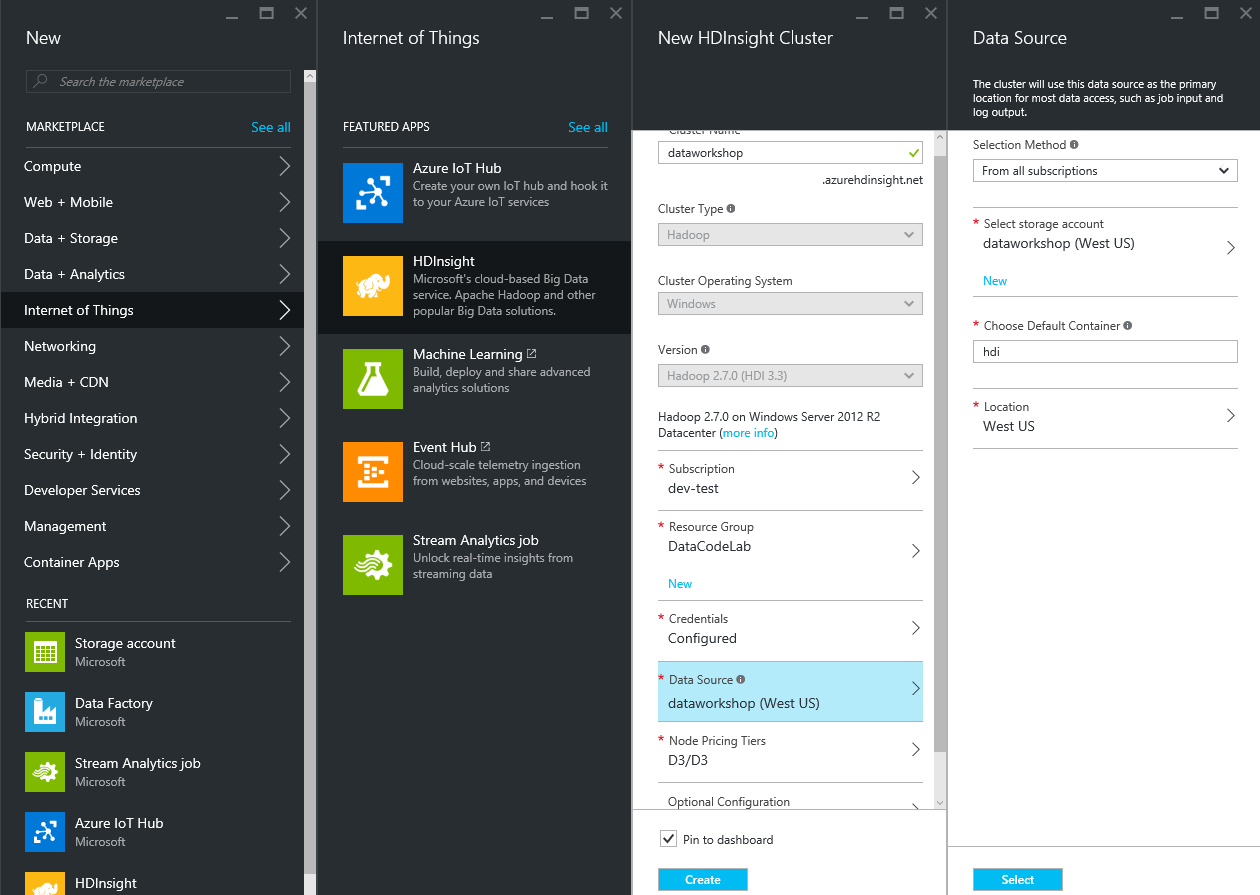
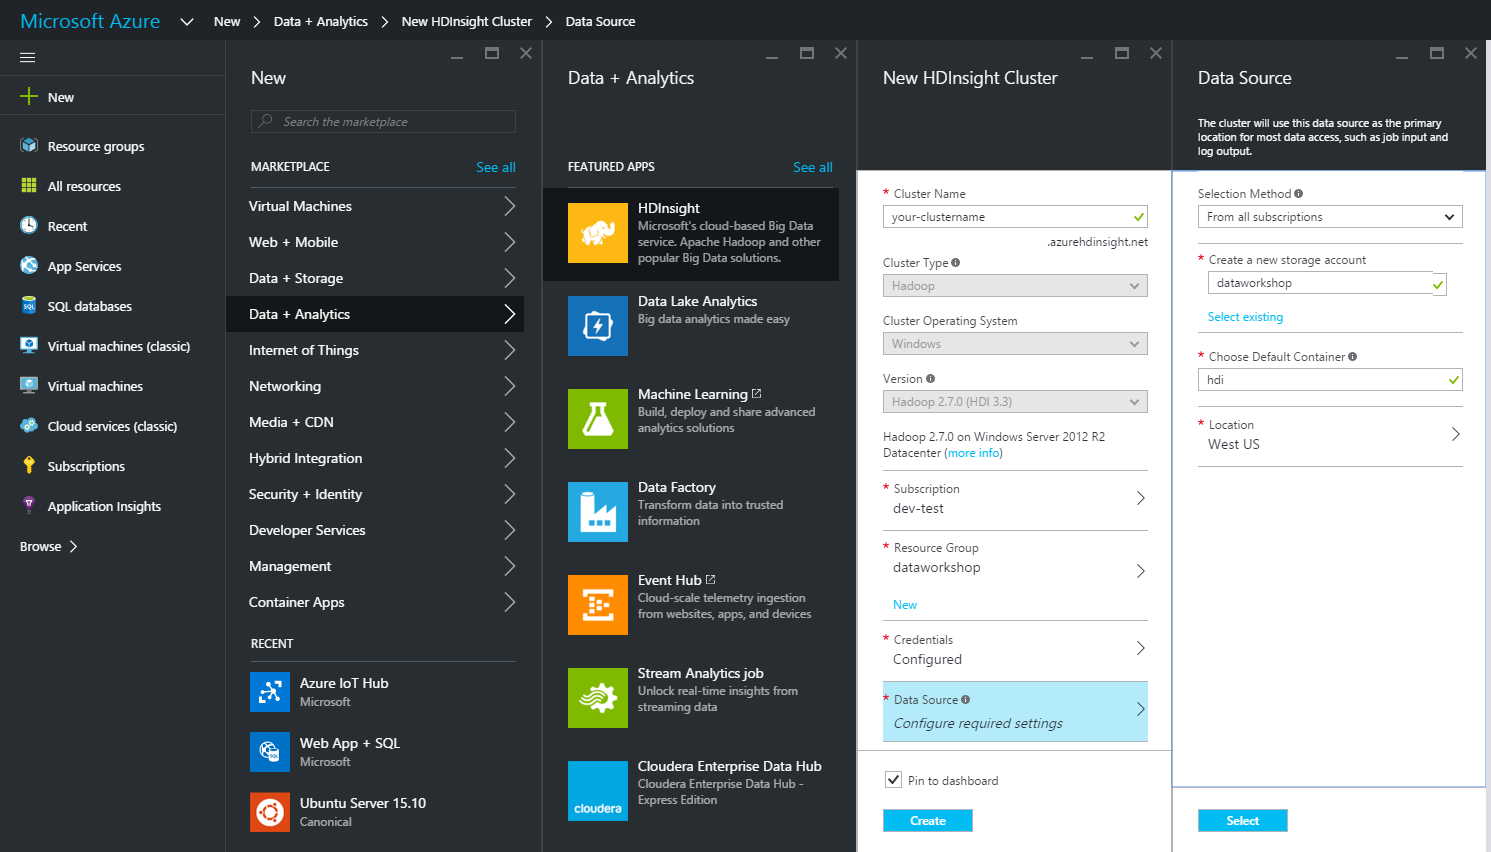
Updated setup section of module 2 readme document

diff --git a/Module2-GainInsights/README.md b/Module2-GainInsights/README.md
@@ -41,39 +41,10 @@ In order to run the exercises in this module, you'll need to create an HDI clust
 
 > **Important:** when entering the names for the storage account, SQL DW server and HDInsight server, those must be **globally unique**. To ensure this, you can use your first and last name as prefixes for the resource names. For instance: "johndoestorage", "johndoehdi" and "johndoesqlserver".
 
-
-<a name="SetupScript"></a>
-#### Automated setup using scripts ####
-
-Using the setup script you can fully setup the environment by creating the sample data, upload to storage, create HDI cluster and SQL Data Warehouse.
-
-1. Open Windows Explorer and browse to the module's **Setup** folder.
-1. Right-click **Setup.cmd** and select **Run as Administrator** to launch the setup process.
-1. If the _User Account Control_ dialog box is shown, confirm the action to proceed.
-1. Select a setup operation from the menu. First generate the sample data files and then proceed with the next tasks in order.
-
-	![Setup menu](Images/setup-menu.png?raw=true "Setup menu")
-
-	_Setup menu_
-
-1. If prompted, log in with credentials where you have an available Azure subscription. You will be able to select one if you have multiple subscriptions.
-
-1. Complete the prompted values as requested on each setup step. **Take note of the account names, keys and passwords as they will be required for the exercises**. Also, the settings will be stored in .txt files inside the "Setup" folder.
-
-	The HDI cluster provisioning may take around 15 minutes. You can enter the [Microsoft Azure portal](https://portal.azure.com/) to check the status of the HDI cluster provisioning.
-
-	![HDI cluster in progress](Images/setup-inprogress-hdi.png?raw=true "HDI cluster in progress")
-
-	_HDI cluster in progress_
-
-    **Note**: to clean your subscription just delete the 'DataCodeLab' resource group and all the associated resources.
-
-Now you can skip the manual setup instructions and start executing the exercises.
-
 <a name="ManualSetupHDI"></a>
 #### Manual Setup 1: Creating the HDI cluster ####
 
-1. In the [Microsoft Azure portal](https://portal.azure.com/), create a new HDI cluster (_New > Internet of Things > HDInsight_).
+1. In the [Microsoft Azure portal](https://portal.azure.com/), create a new HDI cluster (_New > Data + Analytics > HDInsight_).
 
 1. Enter a globally unique name for the cluster.
 
@@ -81,33 +52,84 @@ Now you can skip the manual setup instructions and start executing the exercises
 
 	HDInsight allows to deploy a variety of cluster types, for different data analytics workloads. Cluster types offered are:
 
-	- _Hadoop: for query and analysis workloads_
-	- HBase: for NoSQL workloads
-	- Storm: for real time event processing workloads
-	- Spark: for in-memory processing, interactive queries, stream, and machines learning workloads.
+	- **_Hadoop**: for query and analysis workloads_
+	- **HBase**: for NoSQL workloads
+	- **Storm**: for real time event processing workloads
+	- **Spark**: for in-memory processing, interactive queries, stream, and machines learning workloads.
 
 1. Select an operating system for the cluster (you can choose between either Windows or Linux) and use the latest version ("Hadoop 2.7.0 (HDI 3.3)" or latest)
 
 1. Select the same Resource Group as the used for the Storage account ("**DataCodeLab**").
 
-1. Configure the cluster login credentials (for instance: **admin/P@ssword**) and the SSH creadetials if using Linux. No need to enable **Remote Desktop**. You will use the cluster credentails to access the Hive dashboard (for Windows) or Ambari portal (for Linux) when testing the HQL queries.
+1. Configure the cluster login credentials (for instance: **admin/myP@ssw0rd**) and the SSH creadetials if using Linux. Enable **Remote Desktop**. You will use the cluster credentails to access the Hive dashboard (for Windows) or Ambari portal (for Linux) when testing the HQL queries.
 
-1. Select the existing storage account you created in the previous setup task for the _data source_ and use "**hdi**" for the default container name.
+1. Create a new storage account for the _data source_ and use "**hdi**" for the default container name.
 
 1. You can use 1 for the worker nodes number and the lowest pricing tiers for this module.
+
+1. Click **Create**. The provisioning may take 15 minutes to complete.
 
 	![Create HDI cluster](Images/setup-create-hdi.png?raw=true "Create HDI cluster")
 
 	_Create HDI cluster_
 
-1. Click **Create**. The provisioning may take 15 minutes to complete.
+> **Note:** For this module we don't need to persist the cluster when deleted, so we won't configure a Hive and Oozie metastore for it. 
 
-	> **Note:** For this module we don't need to persist the cluster when deleted, so we won't configure a Hive and Oozie metastore for it. 
+> Using the metastore helps you to retain your Hive and Oozie metadata, so that you don't need to re-create Hive tables or Oozie jobs when you create a new cluster. By default, Hive uses an embedded Azure SQL database to store this information. The embedded database can't preserve the metadata when the cluster is deleted.
 
-	> 	Using the metastore helps you to retain your Hive and Oozie metadata, so that you don't need to re-create Hive tables or Oozie jobs when you create a new cluster. By default, Hive uses an embedded Azure SQL database to store this information. The embedded database can't preserve the metadata when the cluster is deleted. 
+> In order to configure Oozie or Hive metadata Database, first you need to create the SQL Database. To do this, navigate to _New > Data + Storage > SQL Database_ and create a _blank database_ in the same resource group that you want to use for the HDI cluster.
+
+> ![Create a SQL Database](Images/creating-the-sql-database.png?raw=true "Create a SQL Database")
+
+> _Create a SQL Database_
+
+> Then, select _Optional Configuration_ in the _New HDInsight Cluster_. Select _External Metastores_ in the _Optional Configuration_ blade and choose to use an existing SQL Database, selcting the one you created before.
+
+> ![External Metastores configuration](Images/external-metastores-configuration.png?raw=true "External Metastores configuration")
+
+> _External Metastores configuration_
+
+<a name="ManualSetupSqlDW"></a>
+#### Manual Setup 2: Manually creating the SQL Data Warehouse ####
+
+1. In the [Microsoft Azure portal](https://portal.azure.com/), create a new SQL Data Warehouse (_New > Data + Storage > SQL Data Warehouse_).
+
+1. Enter "**partsunlimited**" for the database name.
+
+1. The minimun performance of 100 DWU will be enough for this module.
+
+1. Create a new SQL Server for hosting the Data Warehouse.
+	1. Select **Create a new server** in the Server blade.
+	1. Enter a globally unique name for the server.
+	1. Enter a admin login name: **dwadmin**
+	1. Write a password for the server login: **P@ssword123**
+	1. Repeat the password to confirm it.
+	1. Select the same location used for the other services.
+
+1. Use **Blank database** for the source so a new empty database is used (it will use the "partsunlimited" name).
+
+1. Select the resource group used for all the services: **DataCodeLab**.
+
+	![Create SQL Data Warehouse](Images/setup-create-dw.png?raw=true "SQL Data Warehouse")
+
+	_SQL Data Warehouse_
+
+1. Click **Create**.
+
+1. Once created, in the _SQL Data Warehouse_ blade, click on the server name to open the Sql Server settings.
+
+1. Click **Show firewall settings**.
+
+1. Click on **Add client IP** to add a rule to enable access for your machine.
+
+	![Firewall config](Images/setup-dw-firewall.png?raw=true "Firewall config")
+
+	_Firewall config_
+
+1. Click **Save**.
 
 <a name="ManualSetupUploadFiles"></a>
-#### Manual Setup 2: Manually uploading the sample files ####
+#### Manual Setup 3: Manually uploading the sample files ####
 
 1. In the [Microsoft Azure portal](https://portal.azure.com/), create a new Storage Account or find an existing one to reuse.
  1. Make sure to use the "_Resource Manager_" for the deployment mode.
@@ -136,7 +158,7 @@ Now you can skip the manual setup instructions and start executing the exercises
 		],
 	> ````
 
-1. Go back to the Azure portal and check if the storage provisioning is complete. **Take note of the storage account name and key values from the settings pane.
+1. Go back to the Azure portal and check if the storage provisioning is complete. **Take note of the storage account name and key values from the settings pane**.
 
 	![Getting account name and key](Images/setup-storage-key.png?raw=true "Getting account name and key")
 
@@ -152,46 +174,14 @@ Now you can skip the manual setup instructions and start executing the exercises
 
 > **Note:** Alternativelly, you could use the [Blob Service REST API](https://msdn.microsoft.com/en-us/library/azure/dd135733.aspx) to automate the files upload.
 
-<a name="ManualSetupSqlDW"></a>
-#### Manual Setup 3: Manually creating the SQL Data Warehouse ####
+<a name="ManualSetupSqlDWScript"></a>
+#### Manual Setup 4: Manually creating the tables and stored procedures in SQL Data Warehouse ####
 
-1. In the [Microsoft Azure portal](https://portal.azure.com/), create a new SQL Data Warehouse (_New > Data + Storage > SQL Data Warehouse_).
+Once that the SQL Data Warehouse is created, you need to create the tables and stored procedures that will be used in this module.
 
-1. Enter "**partsunlimited**" for the database name.
+1. Navigate to the SQL Data Warehouse you created previously.
 
-1. The minimun performance of 100 DWU will be enough for this module.
-
-1. Create a new SQL Server for hosting the Data Warehouse.
- 1. Select **Create a new server** in the Server blade.
- 1. Enter a globally unique name for the server.
- 1. Enter a admin login name: **dwadmin**
- 1. Write a password for the server login: **P@ssword123**
- 1. Repeat the password to confirm it.
- 1. Select the same location used for the other services.
-
-1. Use **Blank database** for the source so a new empty database is used (it will use the "partsunlimited" name).
-
-1. Select the resource group used for all the services: **DataCodeLab**.
-
-	![Create SQL Data Warehouse](Images/setup-create-dw.png?raw=true "SQL Data Warehouse")
-
-	_SQL Data Warehouse_
-
-1. Click **Create**.
-
-1. Once created, in the SQL Data Warehouse blade, click on the server name to open the Sql Server settings.
-
-1. Click "Show firewall settings".
-
-1. Click on "Add client IP" to add a rule to enable access for your machine.
-
-	![Firewall config](Images/setup-dw-firewall.png?raw=true "Firewall config")
-
-	_Firewall config_
-
-1. Click **Save**.
-
-1. In the SQL Data Warehouse blade, click **Open in Visual Studio**. In the new blade, click "Open in Visual Studio".
+1. In the _SQL Data Warehouse_ blade, click **Open in Visual Studio**. In the new blade, click **Open in Visual Studio**.
 
 	![Open Data Warehouse in Visual Studio](Images/setup-open-vs.png?raw=true "Open Data Warehouse in Visual Studio")
 
@@ -228,13 +218,41 @@ Now you can skip the manual setup instructions and start executing the exercises
 	GO
 	````
 
-1. Click execute button (Ctrl+Shift+E) to run the query.
+1. Click execute button (**Ctrl+Shift+E**) to run the query.
 
 	![Creating schema for Data Warehouse](Images/setup-run-sql.png?raw=true "Creating schema for Data Warehouse")
 
 	_Creating schema for Data Warehouse_
 
 1. Close Visual Studio. You don't need to save changes.
+
+<a name="SetupScript"></a>
+#### Automated setup using scripts ####
+
+Using the setup script you can fully setup the environment by creating the sample data, upload to storage, create HDI cluster and SQL Data Warehouse. You can skip all the tasks that you have performed manually.
+
+1. Open Windows Explorer and browse to the module's **Setup** folder.
+1. Right-click **Setup.cmd** and select **Run as Administrator** to launch the setup process.
+1. If the _User Account Control_ dialog box is shown, confirm the action to proceed.
+1. Select a setup operation from the menu. First generate the sample data files and then proceed with the next tasks in order.
+
+	![Setup menu](Images/setup-menu.png?raw=true "Setup menu")
+
+	_Setup menu_
+
+1. If prompted, log in with credentials where you have an available Azure subscription. You will be able to select one if you have multiple subscriptions.
+
+1. Complete the prompted values as requested on each setup step. **Take note of the account names, keys and passwords as they will be required for the exercises**. Also, the settings will be stored in .txt files inside the "Setup" folder.
+
+	The HDI cluster provisioning may take around 15 minutes. You can enter the [Microsoft Azure portal](https://portal.azure.com/) to check the status of the HDI cluster provisioning.
+
+	![HDI cluster in progress](Images/setup-inprogress-hdi.png?raw=true "HDI cluster in progress")
+
+	_HDI cluster in progress_
+
+> **Note:** to clean your subscription just delete the **DataCodeLab** resource group and all the associated resources.
+
+Now you start executing the exercises.
 
 ---
 
